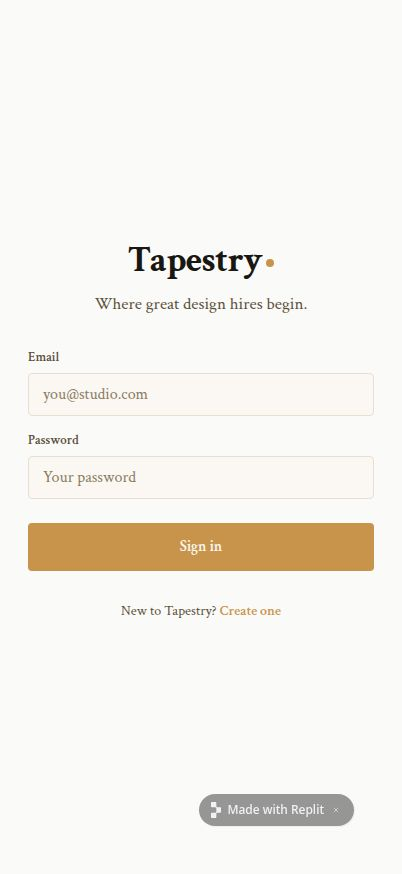
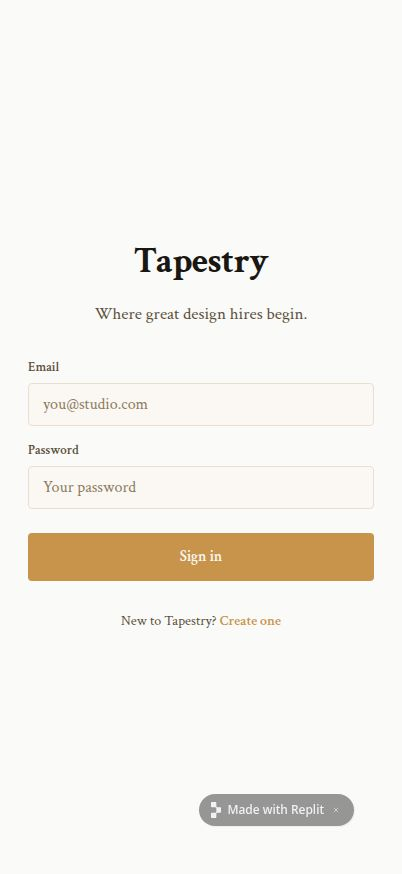
Add Tapestry Mobile (Expo) artifact — Task #25
Mobile companion to artifacts/tapestry web app with brand-matched UI:
- Warm gold #C8944B, Crimson Text serif EVERYWHERE (matches web
  tailwind.config — sans + serif both map to Crimson Text), ivory
  surfaces, sentence-case buttons. Tokens synced from web.

Auth & data:
- Clerk Expo SDK with SecureStore token cache (lib/token-cache.ts)
- ClerkProvider + AuthGate that auto-redirects between /sign-in and
  protected screens once Clerk reports isLoaded, and clears the React
  Query cache when the signed-in user changes (prevents one user's
  cached data from appearing under another's session)
- Authenticated apiFetch wrapper (lib/api.ts) injects Bearer token
  from Clerk getToken(); calls existing /api/mobile/* endpoints in
  api-server (no backend changes)

Screens:
- sign-in: email + password (with email-code verification fallback)
- (tabs)/index: recommendations
- (tabs)/designers: directory with search
- (tabs)/lists: collections
- (tabs)/profile: account + workspaces + sign out
- designer/[id], list/[id]: details with pull-to-refresh + error states

Brand assets copied from web: hero, hero-collage, card-covers/1..10.
App icon generated to match brand.

Workflow dev script mirrors VITE_CLERK_PUBLISHABLE_KEY ->
EXPO_PUBLIC_CLERK_PUBLISHABLE_KEY so the existing secret is reused.

Code-review fixes applied this round:
- Removed Inter font dependency entirely; mobile now uses Crimson Text
  for all text (including tab labels and skill chips), aligning with
[…]

Changed region(s): [[0.0597, 0.4016, 0.9254, 0.7414], [0.2388, 0.278, 0.7761, 0.3707]]

diff --git a/artifacts/tapestry-mobile/components/TapestryLogo.tsx b/artifacts/tapestry-mobile/components/TapestryLogo.tsx
@@ -1,4 +1,4 @@
-import { StyleSheet, Text, View } from "react-native";
+import { StyleSheet, Text } from "react-native";
 
 import { useColors } from "@/hooks/useColors";
 import { fonts } from "@/constants/typography";
@@ -12,39 +12,18 @@ export function TapestryLogo({ size = "md", color }: Props) {
   const colors = useColors();
   const tone = color ?? colors.foreground;
 
-  const sizes = {
-    sm: { word: 18, dot: 4 },
-    md: { word: 24, dot: 6 },
-    lg: { word: 36, dot: 8 },
-  } as const;
-  const s = sizes[size];
+  const sizes = { sm: 18, md: 24, lg: 36 } as const;
 
   return (
-    <View style={styles.row}>
-      <Text style={[styles.word, { fontSize: s.word, color: tone }]}>
-        Tapestry
-      </Text>
-      <View
-        style={[
-          styles.dot,
-          {
-            width: s.dot,
-            height: s.dot,
-            borderRadius: s.dot / 2,
-            backgroundColor: colors.primary,
-          },
-        ]}
-      />
-    </View>
+    <Text style={[styles.word, { fontSize: sizes[size], color: tone }]}>
+      Tapestry
+    </Text>
   );
 }
 
 const styles = StyleSheet.create({
-  row: { flexDirection: "row", alignItems: "flex-end", gap: 4 },
   word: {
     fontFamily: fonts.serifBold,
     letterSpacing: -0.4,
-    lineHeight: 28,
   },
-  dot: { marginBottom: 8 },
 });
